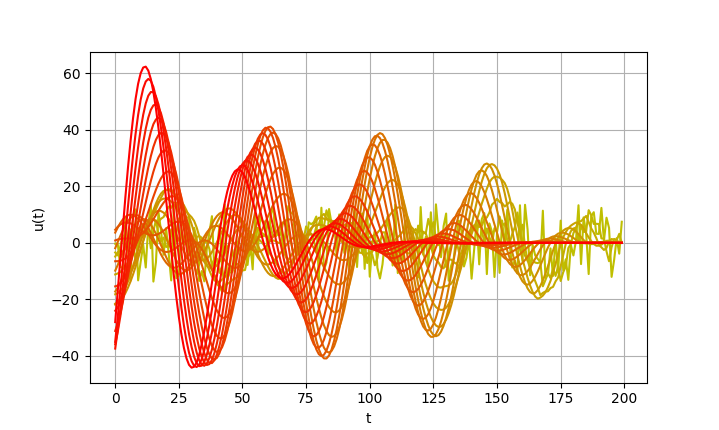
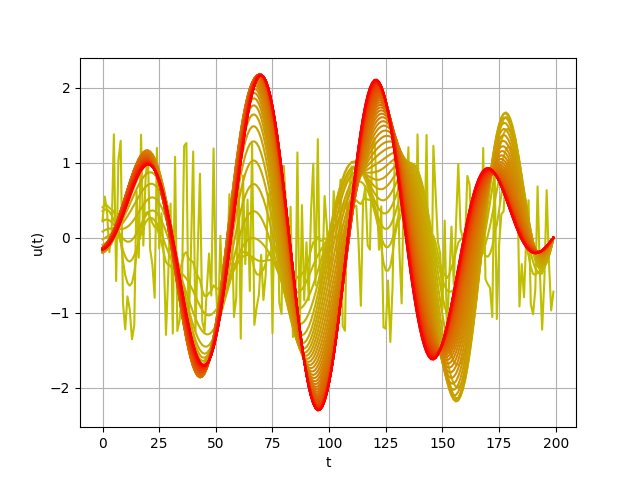
neural net pendulum example

diff --git a/hinf_syn.py b/hinf_syn.py
@@ -1,0 +1,204 @@
+from cvxpy import Variable, Problem, Minimize, bmat, SCS, MOSEK
+import cvxpy as cp
+import numpy as np
+#import gurobipy
+import mosek
+import matlab.engine
+#eng = matlab.engine.start_matlab()
+
+
+def get_robust_stabilizing_K(A, B1, B2, C1, D11, D12, D_l=None, D_r_inv=None):
+    (nx, nu) = B2.shape
+    (_ , nd) = B1.shape
+    (nz, _) = C1.shape
+    if D_l is not None and D_r_inv is not None:
+        B1 = B1 @ D_r_inv
+        C1 = D_l @ C1
+        D11 = D_l @ D11 @ D_r_inv
+        D12 = D_l @ D12
+    Q = Variable((nx, nx), symmetric=True)
+    L = Variable((nu, nx))
+    eta = Variable()
+    Id = np.eye(nd)
+    Iz = np.eye(nz)
+    Onxz = np.zeros((nx, nz))
+    Onxd = np.zeros((nx, nd))
+    Ondz = np.zeros((nd, nz))
+
+    #M11 = -Q + B1 @ B1.T
+    #M12 = A @ Q + B2 @ L
+    #M13 = Onxz
+    #M22 = -Q
+    #M23 = (C1 @ Q + D2 @ L).T
+    #M33 = -eta * Iz
+    #LMI = bmat([[M11, M12, M13],
+    #            [M12.T, M22, M23],
+    #            [M13.T, M23.T, M33]])
+
+    M11 = Q
+    M12 = A @ Q + B2 @ L
+    M13 = B1
+    M14 = Onxz
+    M22 = Q
+    M23 = Onxd
+    M24 = Q @ C1.T + L.T @ D12.T
+    M33 = eta * Id
+    M34 = D11.T#Ondz
+    M44 = eta * Iz
+    LMI = bmat([[M11, M12, M13, M14],
+                [M12.T, M22, M23, M24],
+                [M13.T, M23.T, M33, M34],
+                [M14.T, M24.T, M34.T, M44]])
+
+    #print('(nx, nu, nd, nz): ', nx, nu, nd, nz)
+    constraints = []
+    #constraints.append(Q.T == Q)
+    constraints.append(Q >> 0)
+    constraints.append(LMI >> 0)#*np.eye(2*nx + nd + nz))
+    constraints.append(eta >= 0)
+    obj = Minimize(eta)
+    prob = Problem(obj, constraints)
+    try:
+        prob.solve(solver=MOSEK)
+    except:
+        prob.solve(solver=SCS, acceleration_lookback=0, max_iters=10000)
+
+    gamma_ = eta.value
+    Q_ = np.asmatrix(Q.value, dtype='float')
+    Q_ = (Q_.T + Q_)/2
+    w, v = np.linalg.eigh(Q_)
+    w[w < 0] = 0
+    Q_ = v @ np.diag(w) @ v.T
+    L_ = np.asmatrix(L.value, dtype='float')
+    P = np.linalg.inv(Q_)
+    K = L_ * P
+    return L_, Q_, K, gamma_
+
+def get_H_inf_norm(A, B1, B2, C1, D11, D12, K, D_l=None, D_r_inv=None):
+    #print('A {}, B1 {}, B2 {}'.format(A.shape, B1.shape, B2.shape))
+    #print('C1 {},  D11 {}, D12 {}'.format(C1.shape, D11.shape, D12.shape))
+    (nx, nd) = B1.shape
+    (_, nu) = B2.shape
+    (nz, _) = C1.shape
+
+    if D_l is not None and D_r_inv is not None:
+        B1 = B1 @ D_r_inv
+        C1 = D_l @ C1
+        D11 = D_l @ D11 @ D_r_inv
+        D12 = D_l @ D12
+
+    Ad = A + B2 @ K
+    Bd = B1
+    Dd = D11
+    Cd = (C1 + D12 @ K)
+    P = Variable((nx, nx), symmetric=True)
+    gamma = Variable()
+    Ind = np.eye(nd)
+    Inz = np.eye(nz)
+    Onxnz = np.zeros((nx, nz))
+    Onxnd = np.zeros((nx, nd))
+    Ondnz = np.zeros((nd, nz))
+
+
+    # M11 = Ad.T@P@Ad - P
+    # M12 = Ad.T@P@Bd
+    # M13 = Cd.T
+    # M22 = Bd.T@P@Bd - gamma * Ind
+    # M23 = Dd.T
+    # M33 = - gamma * Inz
+
+    # LMI = bmat([    [M11, M12, M13],
+    #                 [M12.T, M22, M23],
+    #                 [M13.T, M23.T, M33]])
+    M11 = P
+    M12 = Ad@P
+    M13 = Bd
+    M14 = Onxnz
+    M22 = P
+    M23 = Onxnd
+    M24 = P@Cd.T
+    M33 = gamma*Ind
+    M34 = Dd.T
+    M44 = gamma * Inz
+
+    LMI = bmat([ [M11, M12, M13, M14],
+                   [M12.T, M22, M23, M24],
+                   [M13.T, M23.T, M33, M34],
+                   [M14.T, M24.T, M34.T, M44]])
+
+
+    # M11 = P
+    # M12 = P @ Ad
+    # M13 = P @ Bd
+    # M14 = Onxnz
+    # M22 = P
+    # M23 = Onxnd
+    # M24 = Cd.T
+    # M33 = gamma * Ind
+    # M34 = Dd.T
+    # M44 = gamma * Inz
+
+    # LMI = bmat([ [M11, M12, M13, M14],
+    #                [M12.T, M22, M23, M24],
+    #                [M13.T, M23.T, M33, M34],
+    #                [M14.T, M24.T, M34.T, M44]])
+    constraints = []
+    constraints.append(P >> 0.0)#np.eye(nx))
+    constraints.append(LMI >> 0.0)
+    constraints.append(gamma >= 0.0)
+    obj = Minimize(gamma)
+    prob = Problem(obj, constraints)
+    try:
+        prob.solve(solver=MOSEK)
+    except:
+        prob.solve(solver=SCS, acceleration_lookback=0, max_iters=10000)
+
+    #prob.solve()
+    gamma_ = gamma.value
+
+    return gamma_
+
+def get_H_inf_norm_matlab(A, B1, B2, C1, D11, D12, K, ts=0.1, D_l=None, D_r_inv=None):
+    #print('A {}, B1 {}, B2 {}'.format(A.shape, B1.shape, B2.shape))
+    #print('C1 {},  D11 {}, D12 {}'.format(C1.shape, D11.shape, D12.shape))
+    (nx, nd) = B1.shape
+    (_, nu) = B2.shape
+    (nz, _) = C1.shape
+
+    if D_l is not None and D_r_inv is not None:
+        B1 = B1 @ D_r_inv
+        C1 = D_l @ C1
+        D11 = D_l @ D11 @ D_r_inv
+        D12 = D_l @ D12
+
+    Ad = A + B2 @ K
+    Bd = B1
+    Dd = D11
+    Cd = (C1 + D12 @ K)
+    
+    Adm = matlab.double(Ad.tolist())
+    Bdm = matlab.double(Bd.tolist())
+    Ddm = matlab.double(Dd.tolist())
+    Cdm = matlab.double(Cd.tolist())
+
+    sys = eng.ss(Adm, Bdm, Cdm, Ddm, ts)
+    gamma = eng.hinfnorm(sys)
+
+    return gamma
+
+def get_Hinffi_matlab(A, B1, B2, C1, D11, D12, ts=0.1):
+    Ad = A
+    Bd = np.block([B1, B2])
+    Cd = C1
+    Dd = np.block([D11,D12])
+    
+    Adm = matlab.double(Ad.tolist())
+    Bdm = matlab.double(Bd.tolist())
+    Ddm = matlab.double(Dd.tolist())
+    Cdm = matlab.double(Cd.tolist())
+    sys = eng.ss(Adm, Bdm, Cdm, Ddm, ts)
+    K,CL,gamma = eng.hinffi(sys,1,nargout=3)
+    print('hello agian' ,gamma)
+    return np.asarray(K), gamma
+
+

diff --git a/main.py b/main.py
@@ -3,6 +3,8 @@ import matplotlib as mpl
 import matplotlib.pyplot as plt
 from power_iteration_discrete import *
 from tqdm import tqdm
+from utils import get_network_func
+
 
 def colorFader(c1,c2,mix=0): #fade (linear interpolate) from color c1 (at mix=0) to c2 (mix=1)
     c1=np.array(mpl.colors.to_rgb(c1))
@@ -34,18 +36,39 @@ def main():
 	c2='red' #green
 
 	T = 200
-	R = 10.0
-	x0 = np.array([.0, .0])
+	R = 1.0
+	x0 = np.array([0.0, 0.0])
 	lam0 = np.zeros(x0.shape[0])
 	u = np.random.uniform(-1,1,size=T)
 	#t = np.linspace(0,10,N)
 	u = u*R/L2_norm(u.reshape(T,1))
 	plt.plot(u, c=colorFader(c1,c2,0))
-	iterations = 20
+	iterations = 50
+	pi_nn, pi_nn_jax, jac_pi_nn = get_network_func()
+
+	g = 10.
+	m = 0.15
+	l = 0.5
+	mu = 0.05
+	dt = 0.02
+
+
+	def f_pen(x, u):
+		return np.array([x[0] + x[1]*dt, x[1] + (g/l*np.sin(x[0])-mu/(m*l**2)*x[1]+1/(m*l**2)*(pi_nn(x) + u))*dt])
+
+	def f_pen_jax(x, u):
+		return jnp.array([x[0] + x[1]*dt, x[1] + (g/l*jnp.sin(x[0])-mu/(m*l**2)*x[1]+1/(m*l**2)*(pi_nn_jax(x) + u))*dt])
+
+	def y_pen(x, u):
+		return np.array([x[0],x[1],pi_nn(x)*0.1])
+
+	def y_pen_jax(x, u):
+		return jnp.array([x[0],x[1],pi_nn_jax(x)*0.1])
+
 	for i in tqdm(range(iterations)):
-		x, y = phi(f_x_1, y_x, u, T, x0)
+		x, y = phi(f_x_1, y_x_1, u, T, x0)
 		x_rev, u_rev, nu = pi(x,u,y)
-		lam, gamma = psi(f_x_1_jax, y_x, nu, x_rev, u_rev, T, lam0)
+		lam, gamma = psi(f_x_1_jax, y_x_1_jax, nu, x_rev, u_rev, T, lam0)
 		u = theta(gamma, R).reshape(T,)
 		#print(i)
 		plt.plot(u,c=colorFader(c1,c2,(i+1)/iterations))
@@ -53,6 +76,9 @@ def main():
 	plt.ylabel('u(t)')
 	plt.xlabel('t')
 	plt.grid()
+	plt.show()
+
+	plt.plot(u)
 	plt.show()
 
 

diff --git a/utils.py b/utils.py
@@ -2,21 +2,14 @@ from numpy import genfromtxt
 import numpy as np
 from jax import jacobian
 import jax.numpy as jnp
+
 def get_network_func():
 	W1 = jnp.asarray(genfromtxt('Wb_s32_tanh/W1.csv',delimiter=','))
 	W2 = jnp.asarray(genfromtxt('Wb_s32_tanh/W2.csv',delimiter=','))
 	W3 = jnp.asarray(genfromtxt('Wb_s32_tanh/W3.csv',delimiter=','))
 
-	pi_nn = lambda x : W3@jnp.tanh(W2@jnp.tanh(W1@x))
+	pi_nn_jax = lambda x : W3@jnp.tanh(W2@jnp.tanh(W1@x))
+	pi_nn = lambda x : W3@np.tanh(W2@np.tanh(W1@x))
+	jac_pi_nn = jacobian(pi_nn_jax, argnums=0)
 
-	return pi_nn
-
-
-pi_nn_fn = get_network_func()
-dpi_dx = jacobian(pi_nn_fn, argnums=0)
-
-x0 = np.array([1.0, 1.0])
-y = pi_nn_fn(x0)
-dy = dpi_dx(x0)
-print(y)
-print(dy)
+	return pi_nn, pi_nn_jax, jac_pi_nn

diff --git a/power_iteration_discrete.py b/power_iteration_discrete.py
@@ -12,7 +12,7 @@ def phi(f_fn, y_fn, u, T, x0):
 	x = np.zeros((T, x_dim))
 	x[0,:] = x0
 	for i in range(1,T):
-		x_i = f_fn(x[i,:], u[i])
+		x_i = f_fn(x[i-1,:], u[i-1])
 		x[i] = x_i
 
 	y0 = y_fn(x[0],u[0])
@@ -100,6 +100,16 @@ def f_x_1(x_k, u_k):
 	B = np.array([[0.0],[0.1]])
 	K = np.array([[-2.0,-2.0]])
 	return (A+B@K)@x_k + B@(u_k.reshape(1,))
+
+def y_x_1(x_k, u_k):
+	K = np.array([[-2.0,-2.0]])
+	pi_x = K@x_k
+	return np.array([x_k[0],x_k[1], pi_x[0]*0.1])
+
+def y_x_1_jax(x_k, u_k):
+	K = jnp.array([[-2.0,-2.0]])
+	pi_x = K@x_k
+	return jnp.array([x_k[0],x_k[1], pi_x[0]*0.1])
 
 def f_x_jax(x_k,u_k):
 

diff --git a/linear_gain_test.py b/linear_gain_test.py
@@ -1,0 +1,14 @@
+from hinf_syn import get_H_inf_norm
+import numpy as np
+
+
+A = np.array([[1.0, 0.1],[0.0, 1.0]])
+B1 = np.array([[0.0],[0.1]])
+K = np.array([[-2.0,-2.0]])
+B2 = B1
+C1 = np.array([[1.0,0],[0,1.0],[0,0]])
+D11 = np.zeros((3,1))
+D12 = np.array([[0],[0],[0.1]])
+
+gamma = get_H_inf_norm(A, B1, B2, C1, D11, D12, K, D_l=None, D_r_inv=None)
+print(gamma)

diff --git a/power_iteration.py b/power_iteration.py
@@ -110,6 +110,6 @@ def f_x_jax(x_k,t_k,u_k):
 	return jnp.array([-x_k[0] + x_k[1] - x_k[0]*x_k[1]**2,-x_k[1]*x_k[0]**2 - x_k[1] + u_k])
 
 def y_x(x_k, u_k, t_k):
-	return x_k
+	return x_k + u_k*0.1
 
 
